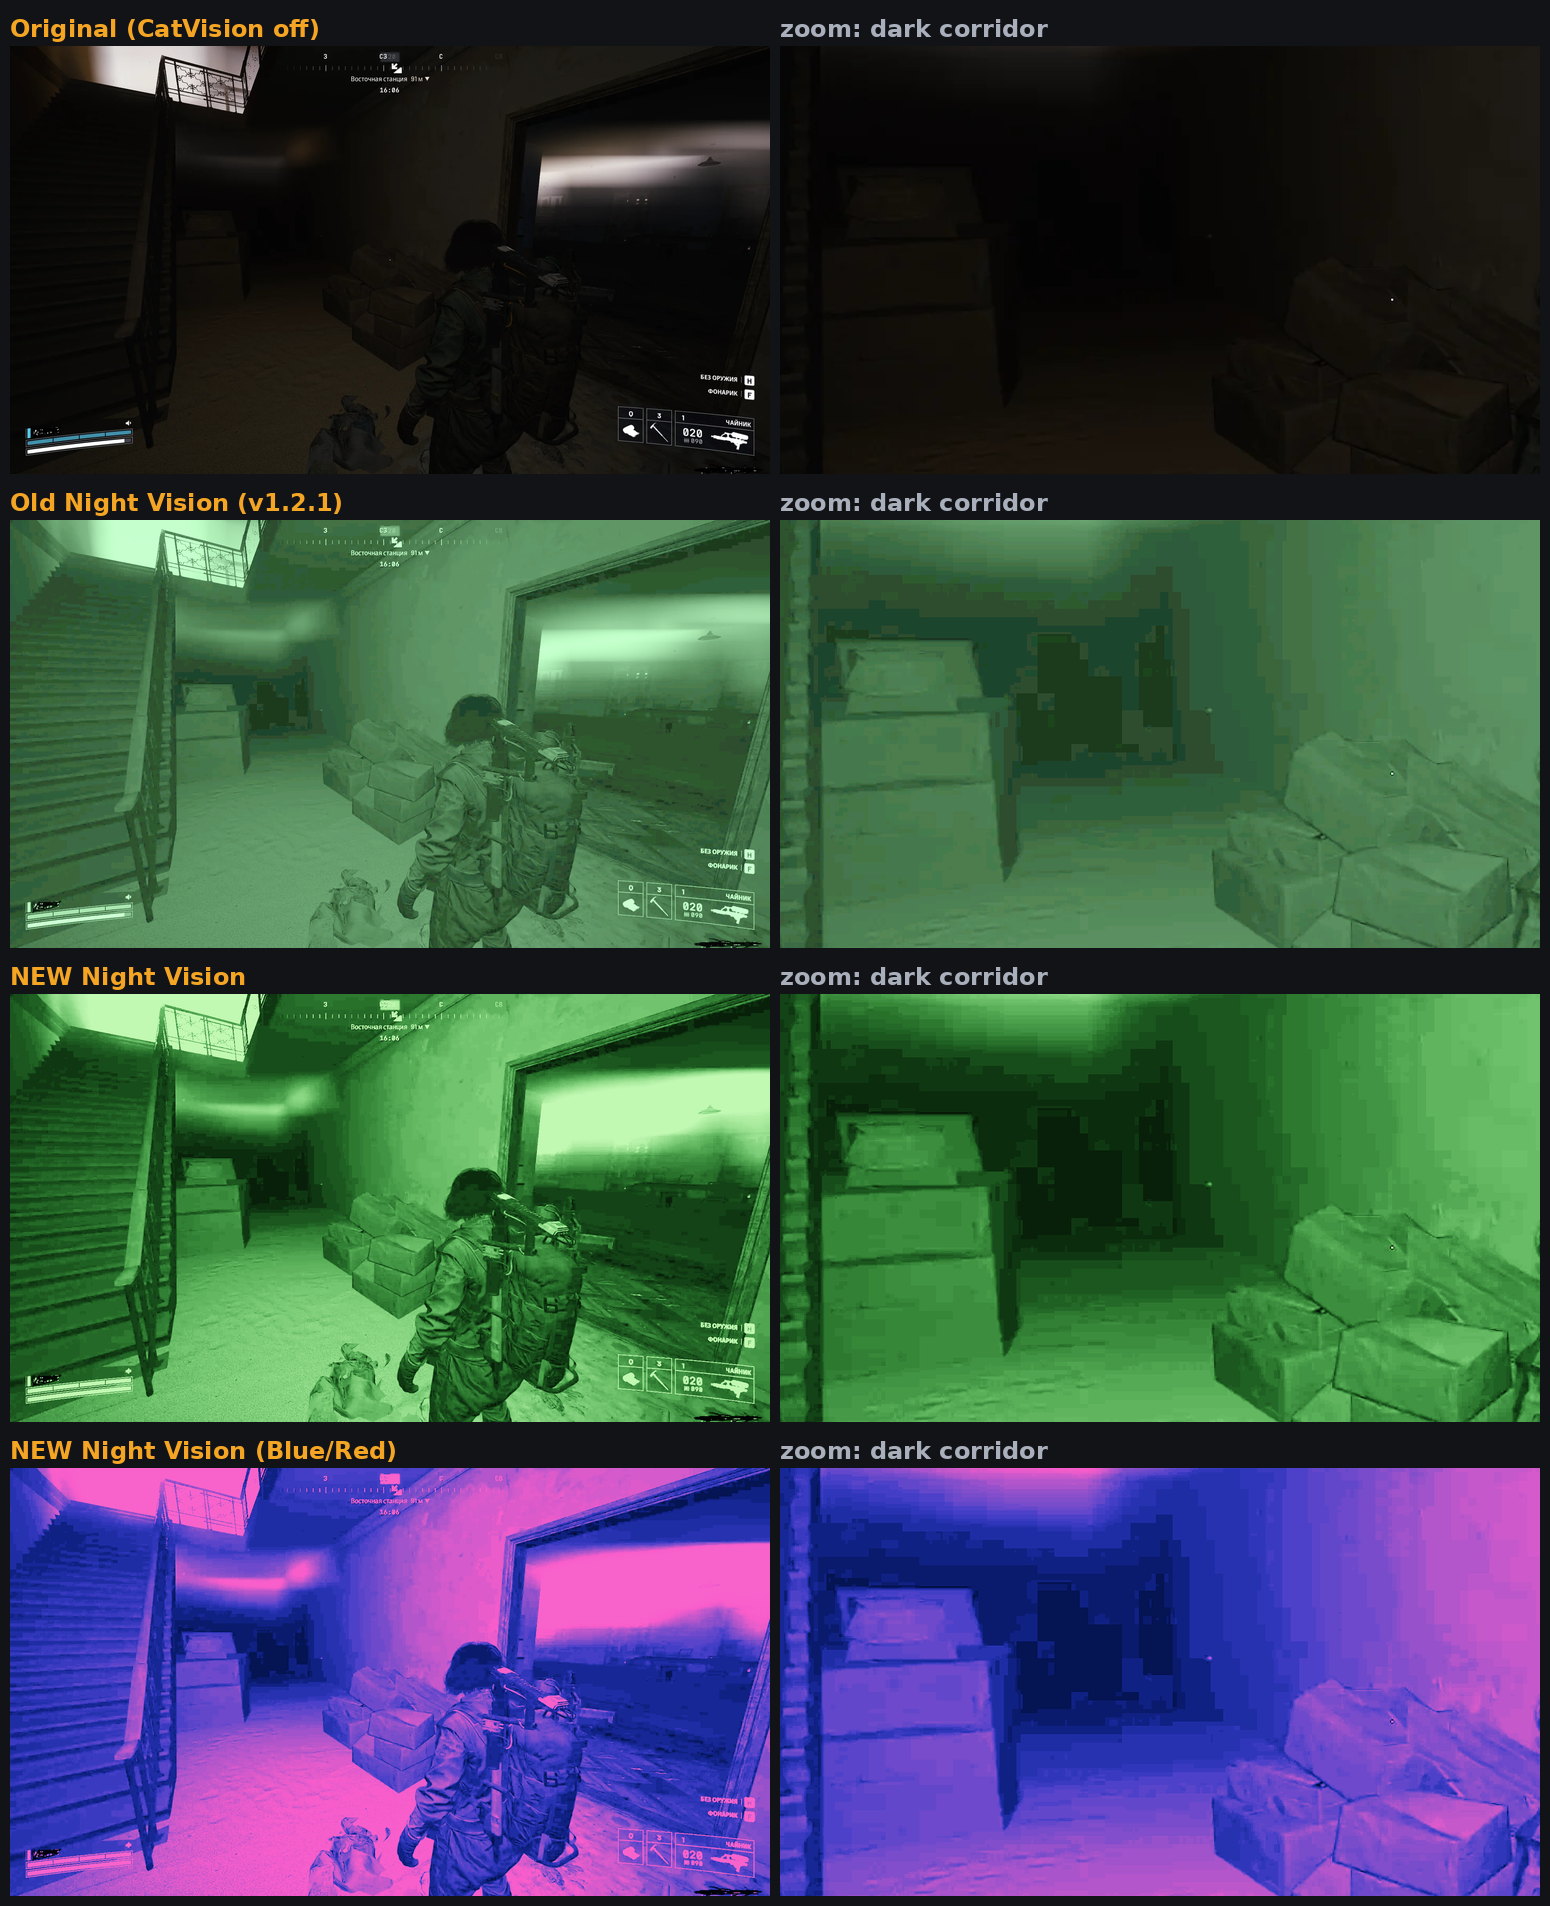
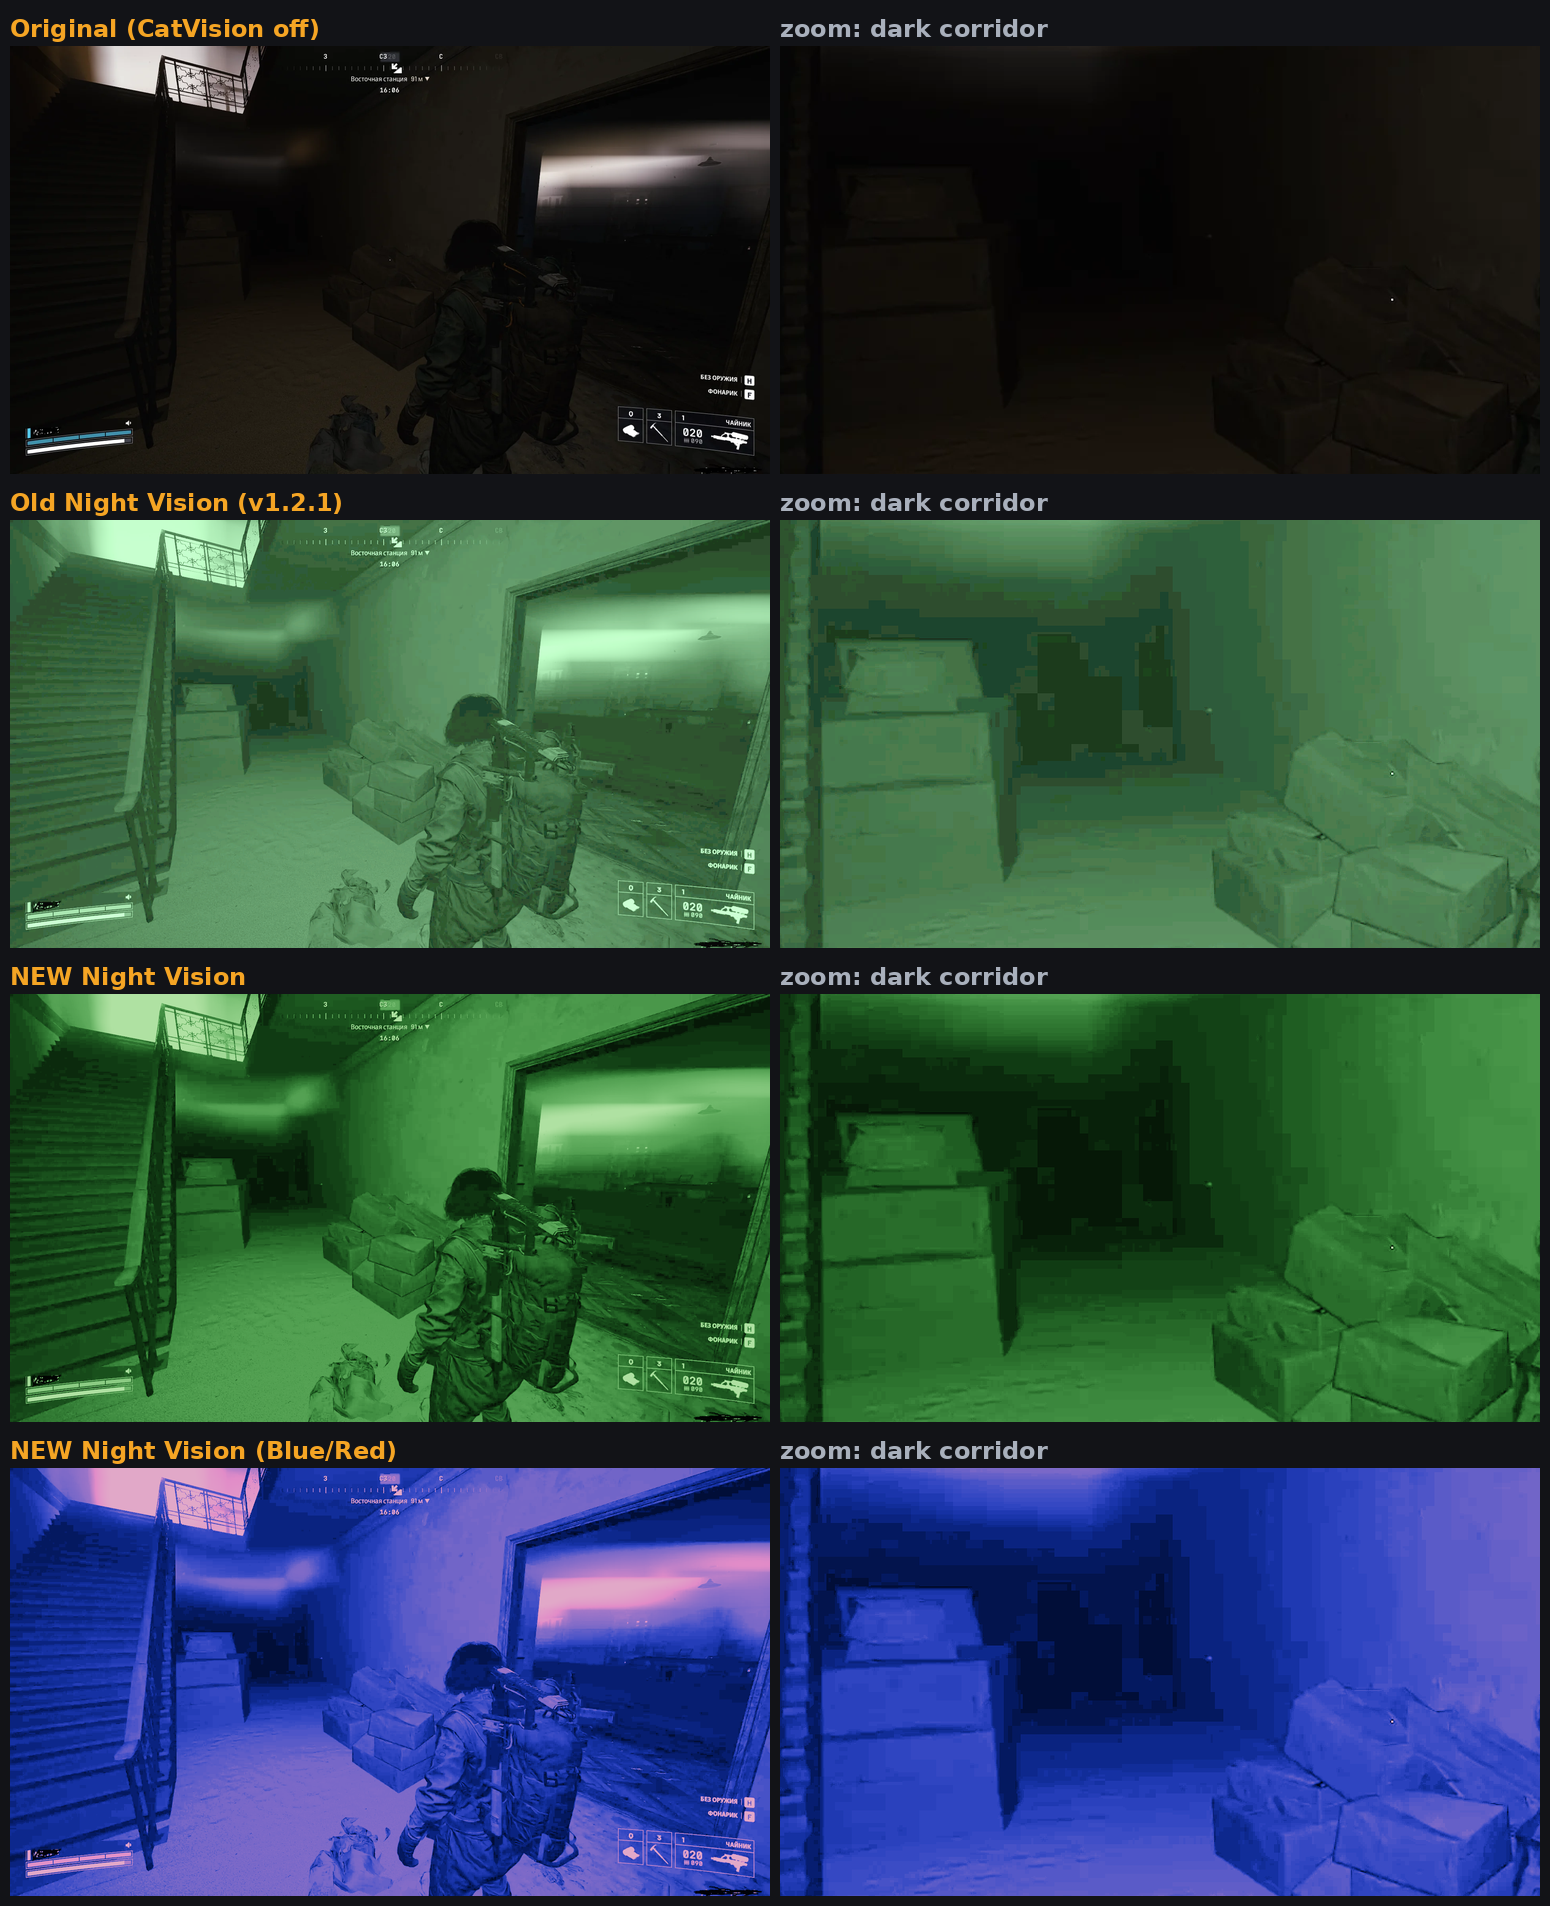
Stop night vision bloom: Anti-glare keeps bright areas from hiding players
Measured on the reference screenshot with two test players in front of
a lit window: with v1.3.0 the mid-tone player ended up brighter than the
window (contrast -10) and vanished into the glow.

- New Anti-glare setting: the exposure curve only fills the output up to
  a knee (where it reaches ~80%), and the top of the range is reserved
  for highlights, which keep rising on a gentle log curve. Mid-tone
  player vs window: -10 -> +17; bright-area detail +31%
- Night vision presets: Anti-glare 70 and glare limit 0.88 (brightest
  output 203/255 instead of 224)
- Blue/Red highlights now gain some green so they still get brighter
  (red and blue alone look dark, so players blended into lamps)
- Regression tests for knee continuity and player-vs-window separation

Claude-Session: https://claude.ai/code/session_01NxMrhbjKxJ8Vp3LieEXVjH

diff --git a/catvision/curves.py b/catvision/curves.py
@@ -27,6 +27,7 @@ RAMP_MAX = 65535
 LIMITS: dict[str, tuple[float, float]] = {
     "shadow_boost": (0.0, 100.0),
     "exposure": (0.0, 100.0),
+    "anti_glare": (0.0, 100.0),
     "gamma": (0.5, 3.0),
     "black_floor": (0.0, 0.30),
     "brightness": (0.5, 2.0),
@@ -65,6 +66,7 @@ class Settings:
 
     shadow_boost: float = 0.0      # 0..100, lifts dark tones, keeps highlights
     exposure: float = 0.0          # 0..100, strong even gain for very dark games
+    anti_glare: float = 0.0        # 0..100, keeps bright areas from blooming (with exposure)
     gamma: float = 1.0             # >1 brightens midtones, <1 darkens
     black_floor: float = 0.0       # raises pure black to this level (0..0.3)
     brightness: float = 1.0        # overall gain
@@ -130,18 +132,41 @@ def shadow_boost_factor(shadow_boost: float) -> float:
     return 201.0 ** (min(shadow_boost, 100.0) / 100.0) - 1.0
 
 
-def exposure_curve(x: float, exposure: float) -> float:
+ANTI_GLARE_MAX_ROOM = 0.45   # share of the output range reserved for highlights at 100
+_HIGHLIGHT_CURVE = 2.0       # gentle log shape for the highlight range
+
+
+def exposure_curve(x: float, exposure: float, anti_glare: float = 0.0) -> float:
     """Night-vision style gain: amplify dim light evenly, roll off highlights.
 
     ``(1 - e^(-k x)) / (1 - e^(-k))``.  Unlike Shadow boost's log curve (which
     is extremely steep right at black and then flattens, giving a foggy look
     when a whole scene is dark), this spreads a very dark scene's tones over
     the full range so shapes keep their depth.  0 = off.
+
+    On its own the curve saturates: everything above a modest brightness turns
+    the same white, so lamps bloom and a player standing in front of a bright
+    window disappears into it.  ``anti_glare`` fixes that: the exposure curve
+    only fills the output up to a knee, and the top part of the output range
+    is kept for highlights, which keep rising gently so bright areas stay
+    brighter than whatever is in front of them.
     """
     k = min(max(exposure, 0.0), 100.0) / 100.0 * 20.0
     if k < 1e-6:
         return x
-    return (1.0 - math.exp(-k * x)) / (1.0 - math.exp(-k))
+
+    def expo(v: float) -> float:
+        return (1.0 - math.exp(-k * v)) / (1.0 - math.exp(-k))
+
+    room = min(max(anti_glare, 0.0), 100.0) / 100.0 * ANTI_GLARE_MAX_ROOM
+    if room <= 0.0:
+        return expo(x)
+    knee = min(0.5, 1.6 / k)          # where the exposure curve reaches ~80%
+    top = 1.0 - room
+    if x <= knee:
+        return top * expo(x) / expo(knee)
+    t = (x - knee) / (1.0 - knee)
+    return top + room * math.log1p(_HIGHLIGHT_CURVE * t) / math.log1p(_HIGHLIGHT_CURVE)
 
 
 def tone_curve(x: float, s: Settings) -> float:
@@ -149,7 +174,7 @@ def tone_curve(x: float, s: Settings) -> float:
 
     ``x`` and the result are in 0..1.
     """
-    y = exposure_curve(_clamp01(x), s.exposure)
+    y = exposure_curve(_clamp01(x), s.exposure, s.anti_glare)
     if s.gamma != 1.0:
         y = y ** (1.0 / s.gamma)
     a = shadow_boost_factor(s.shadow_boost)
@@ -276,8 +301,10 @@ TINT_CURVES: dict[str, TintCurve] = {
     # Image-intensifier green: deep green shadows, pale phosphor highlights.
     "night_vision": ((0.25, 1.0, 0.30), (0.78, 1.0, 0.72), 2.0),
     # Blue shadows -> purple -> red/pink highlights.  (Each channel can only
-    # rise with brightness, so the brightest parts keep a little blue.)
-    "night_vision_br": ((0.05, 0.60, 2.60), (1.35, 0.40, 0.25), 1.25),
+    # rise with brightness, so the brightest parts keep a little blue.)  Green
+    # rises late so highlights still get brighter: red and blue alone look
+    # dark, which would let a player in front of a lamp blend into it.
+    "night_vision_br": ((0.05, 0.55, 2.20), (1.45, 0.75, 0.20), 2.0),
     "amber": ((1.0, 0.72, 0.25), (1.0, 0.72, 0.25), 1.0),
     "ice": ((0.55, 0.85, 1.0), (0.55, 0.85, 1.0), 1.0),
 }

diff --git a/tests/test_catvision.py b/tests/test_catvision.py
@@ -576,3 +576,32 @@ class NightVisionTests(unittest.TestCase):
                 for ch in curves.build_ramp(p.settings, tint):
                     self.assertTrue(all(0 <= v <= 65535 for v in ch), p.name)
                     self.assertTrue(all(x <= y for x, y in zip(ch, ch[1:])), p.name)
+
+
+class AntiGlareTests(unittest.TestCase):
+    def test_off_matches_plain_exposure(self):
+        for x in (0.0, 0.03, 0.1, 0.4, 1.0):
+            self.assertAlmostEqual(curves.exposure_curve(x, 70, 0), curves.exposure_curve(x, 70))
+
+    def test_curve_is_continuous_and_rising(self):
+        prev = curves.exposure_curve(0.0, 70, 70)
+        for i in range(1, 1001):
+            y = curves.exposure_curve(i / 1000, 70, 70)
+            self.assertGreaterEqual(y, prev)
+            self.assertLess(y - prev, 0.03, "no jumps at the knee")
+            prev = y
+        self.assertAlmostEqual(curves.exposure_curve(1.0, 70, 70), 1.0)
+
+    def test_bright_things_stay_apart_in_night_vision(self):
+        """A mid-tone player (level 70) in front of a lit window (level 180)
+        must not merge into it, and the brightest output must stay capped."""
+        for name in ("Night Vision", "Night Vision (Blue/Red)"):
+            s = [p for p in BUILTIN_PRESETS if p.name == name][0].settings
+            tint, _m = curves.plan_color(s)
+            ramp = curves.build_ramp(s, tint)
+            luma = [0.2126 * r + 0.7152 * g + 0.0722 * b for r, g, b in zip(*ramp)]
+            self.assertGreater(luma[180] - luma[70], 0.12 * 65535, name)
+            self.assertGreater(luma[250] - luma[180], 0.015 * 65535, name)
+            self.assertLessEqual(max(max(ch) for ch in ramp), 0.89 * 65535, name)
+            # dark game detail still strongly lifted
+            self.assertGreater(luma[16], 0.25 * 65535, name)

diff --git a/catvision/gui.py b/catvision/gui.py
@@ -27,6 +27,7 @@ APP_TITLE = "CatVision by StormEf4"   # shown in the window, header and tray
 CURVE_SLIDERS = [
     ("shadow_boost", "Shadow boost", "int"),
     ("exposure", "Exposure (very dark games)", "int"),
+    ("anti_glare", "Anti-glare (with Exposure)", "int"),
     ("gamma", "Gamma (midtones)", "x"),
     ("black_floor", "Black floor", "pct"),
     ("brightness", "Brightness", "pct"),
@@ -45,6 +46,9 @@ TIPS = {
     "exposure": "Amplifies dim light evenly, like night-vision goggles. Best when the "
                 "whole scene is very dark: shapes keep their depth instead of looking "
                 "foggy. Bright lights will bloom.",
+    "anti_glare": "Stops bright lights from blooming when Exposure is on, so you're never "
+                  "blinded and players in front of lamps or windows stay visible. Higher "
+                  "keeps more detail in bright areas; lower keeps more in dark areas.",
     "shadow_boost": "The main control. Brightens dark areas a lot and bright areas barely "
                     "at all, so the sky doesn't turn white.",
     "gamma": "Brightens (higher) or darkens (lower) the middle tones.",

diff --git a/catvision/presets.py b/catvision/presets.py
@@ -38,14 +38,15 @@ BUILTIN_PRESETS: list[Preset] = [
     Preset(
         "Night Vision",
         "Like night-vision goggles: amplifies dim light evenly, deep green shadows "
-        "and pale highlights. Best for seeing detail in very dark games.",
-        Settings(exposure=70, contrast=1.1, black_floor=0.015, white_cap=0.97,
+        "and pale highlights. Bright lights are held back so they never blind you "
+        "or hide someone standing in front of them.",
+        Settings(exposure=70, anti_glare=70, contrast=1.1, black_floor=0.015, white_cap=0.88,
                  color_filter="night_vision"),
     ),
     Preset(
         "Night Vision (Blue/Red)",
         "Night vision in blue and red: blue shadows, purple mid-tones, red highlights.",
-        Settings(exposure=75, contrast=1.1, black_floor=0.015, white_cap=0.97,
+        Settings(exposure=75, anti_glare=70, contrast=1.1, black_floor=0.015, white_cap=0.88,
                  color_filter="night_vision_br"),
     ),
     Preset(

diff --git a/catvision/__init__.py b/catvision/__init__.py
@@ -4,4 +4,4 @@ Changes only what your monitor displays (GPU gamma ramp + Windows
 accessibility color filters). Never touches, reads or injects into games.
 """
 
-__version__ = "1.3.0"
+__version__ = "1.3.1"

diff --git a/README.md b/README.md
@@ -139,7 +139,7 @@ You can also give hotkeys to any preset, and use the tray menu for the rest.
 | Gentle Boost | Games that are just a little too dark |
 | Dark Areas | Everyday choice: dark rooms, caves, night |
 | Pitch Black | Nearly black areas (looks washed out, but you'll see) |
-| Night Vision | Like night-vision goggles: deep green shadows, pale highlights. Best for very dark games |
+| Night Vision | Like night-vision goggles: deep green shadows, pale highlights, no blinding bloom. Best for very dark games |
 | Night Vision (Blue/Red) | Night vision in blue and red: blue shadows, purple mid-tones, red highlights |
 | Horror / Flashlight | Lifts darkness, stops flashlights and lamps from dazzling |
 | Fog & Haze Cutter | Murky, foggy, smoky scenes |
@@ -167,7 +167,9 @@ rename or delete.
   bright parts barely at all, so the sky doesn't turn white.
 - **Exposure**: for games where the *whole* scene is very dark. It amplifies
   dim light evenly, like night-vision goggles, so shapes keep their depth
-  instead of looking foggy. Bright lights will bloom.
+  instead of looking foggy.
+- **Anti-glare** (with Exposure): stops bright lights from blooming, so lamps
+  and windows never hide a player standing in front of them.
 - **Gamma (midtones)**: brightens or darkens the middle tones.
 - **Black floor**: raises pure black to dark grey.
 - **Brightness / Contrast**: as usual.
@@ -178,17 +180,31 @@ rename or delete.
 
 ## Night vision
 
-Tuned on dark in-game screenshots. Both night-vision presets use
-**Exposure**, which spreads a very dark scene's tones across the whole
-brightness range, then color the picture *after* brightening it, the way the
-phosphor screen in real goggles does. Compared with the old version, the new
-green Night Vision shows about 1.7x more detail in dark areas and no longer
-looks foggy.
+Tuned on dark in-game screenshots. Both night-vision presets use three
+settings together:
+
+- **Exposure** spreads a very dark scene's tones across the whole brightness
+  range, so shapes keep their depth instead of looking foggy. The color is
+  added *after* brightening, like the phosphor screen in real goggles.
+- **Anti-glare** keeps bright lights from blooming. Instead of every bright
+  thing turning the same white, bright areas get their own range, so a lamp
+  or window stays brighter than anyone standing in front of it.
+- **Glare limit** caps the brightest output, so night vision never blinds you.
+
+![Night vision anti-glare: players in front of a bright window](docs/night_vision_anti_glare.png)
+
+On the reference screenshot, with two test players placed in front of a lit
+window: before Anti-glare, the mid-tone player was *brighter* than the window
+and disappeared into the glow. Now both players stand out, and the brightest
+output is capped at 80% instead of 88%. The new Night Vision still shows
+about 1.25x the dark-area detail of the original (pre-1.3) version, and
+about 5x the game on its own.
 
 ![Night vision before and after](docs/night_vision_before_after.png)
 
 - Raise or lower **Exposure** (or press **Ctrl+Alt+= / -**) for darker or
-  brighter games.
+  brighter games. In **Tune**, raise **Anti-glare** if bright areas still
+  hide things, or lower it to see more in the darkest corners.
 - Green shows the most detail, because our eyes see fine detail best in
   green. Blue/Red is more of a style choice.
 - With only some displays ticked, night vision stays on those displays, but
